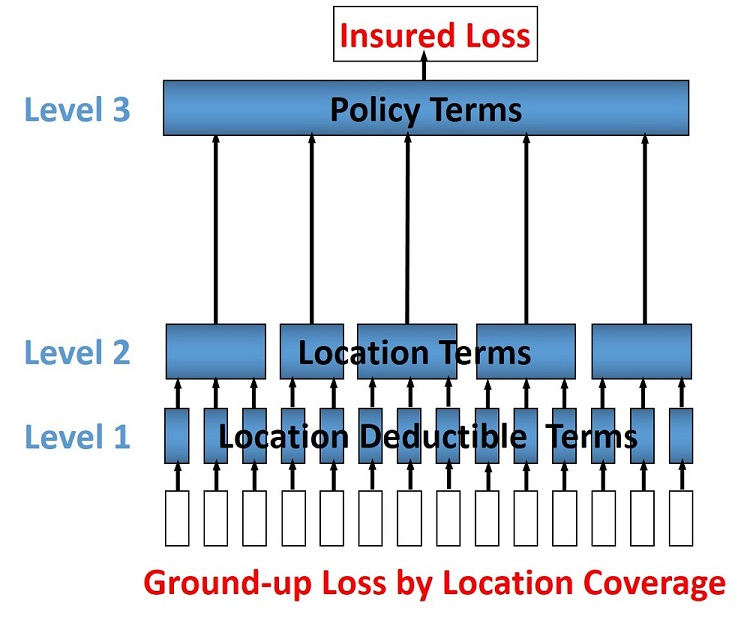
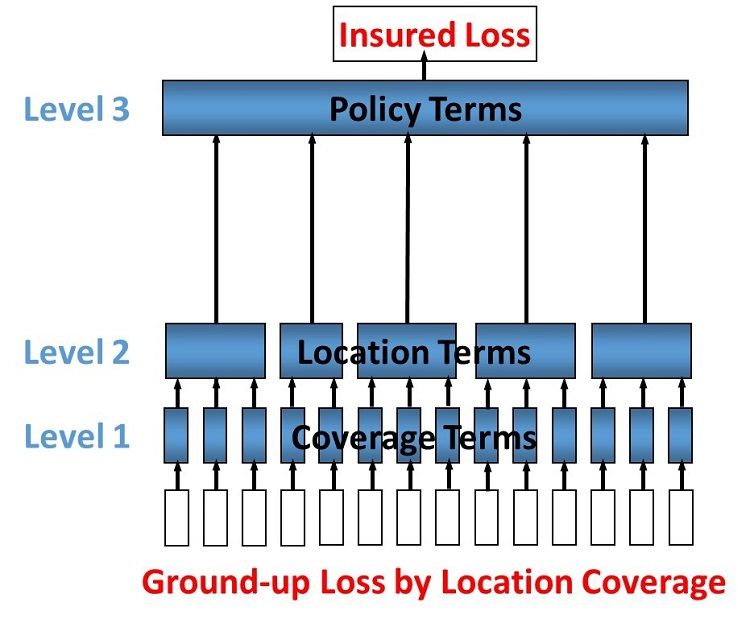
adjusted diagrams and clarified fm hierarchy

diff --git a/docs/md/FinancialModule.md b/docs/md/FinancialModule.md
@@ -59,6 +59,8 @@ There are many ways an insurance loss can be calculated with many different term
 
 Groups are defined within levels and they represent aggregations of losses on which to perform the financial calculations.  The grouping fields are called from_agg_id and to_agg_id which represent a grouping of losses at the previous level and the present level of the hierarchy, respectively.  
 
+Each level calculation applies to the to_agg_id groupings in the heirarchy. There is no calculation applied to the from_agg_id groupings at level 1 - these ids directly correspond to the ids in the loss input. 
+
 #### Figure 2. Example level 1 grouping
 ![alt text](../img/fm2.jpg "Example level 1 grouping")
 
